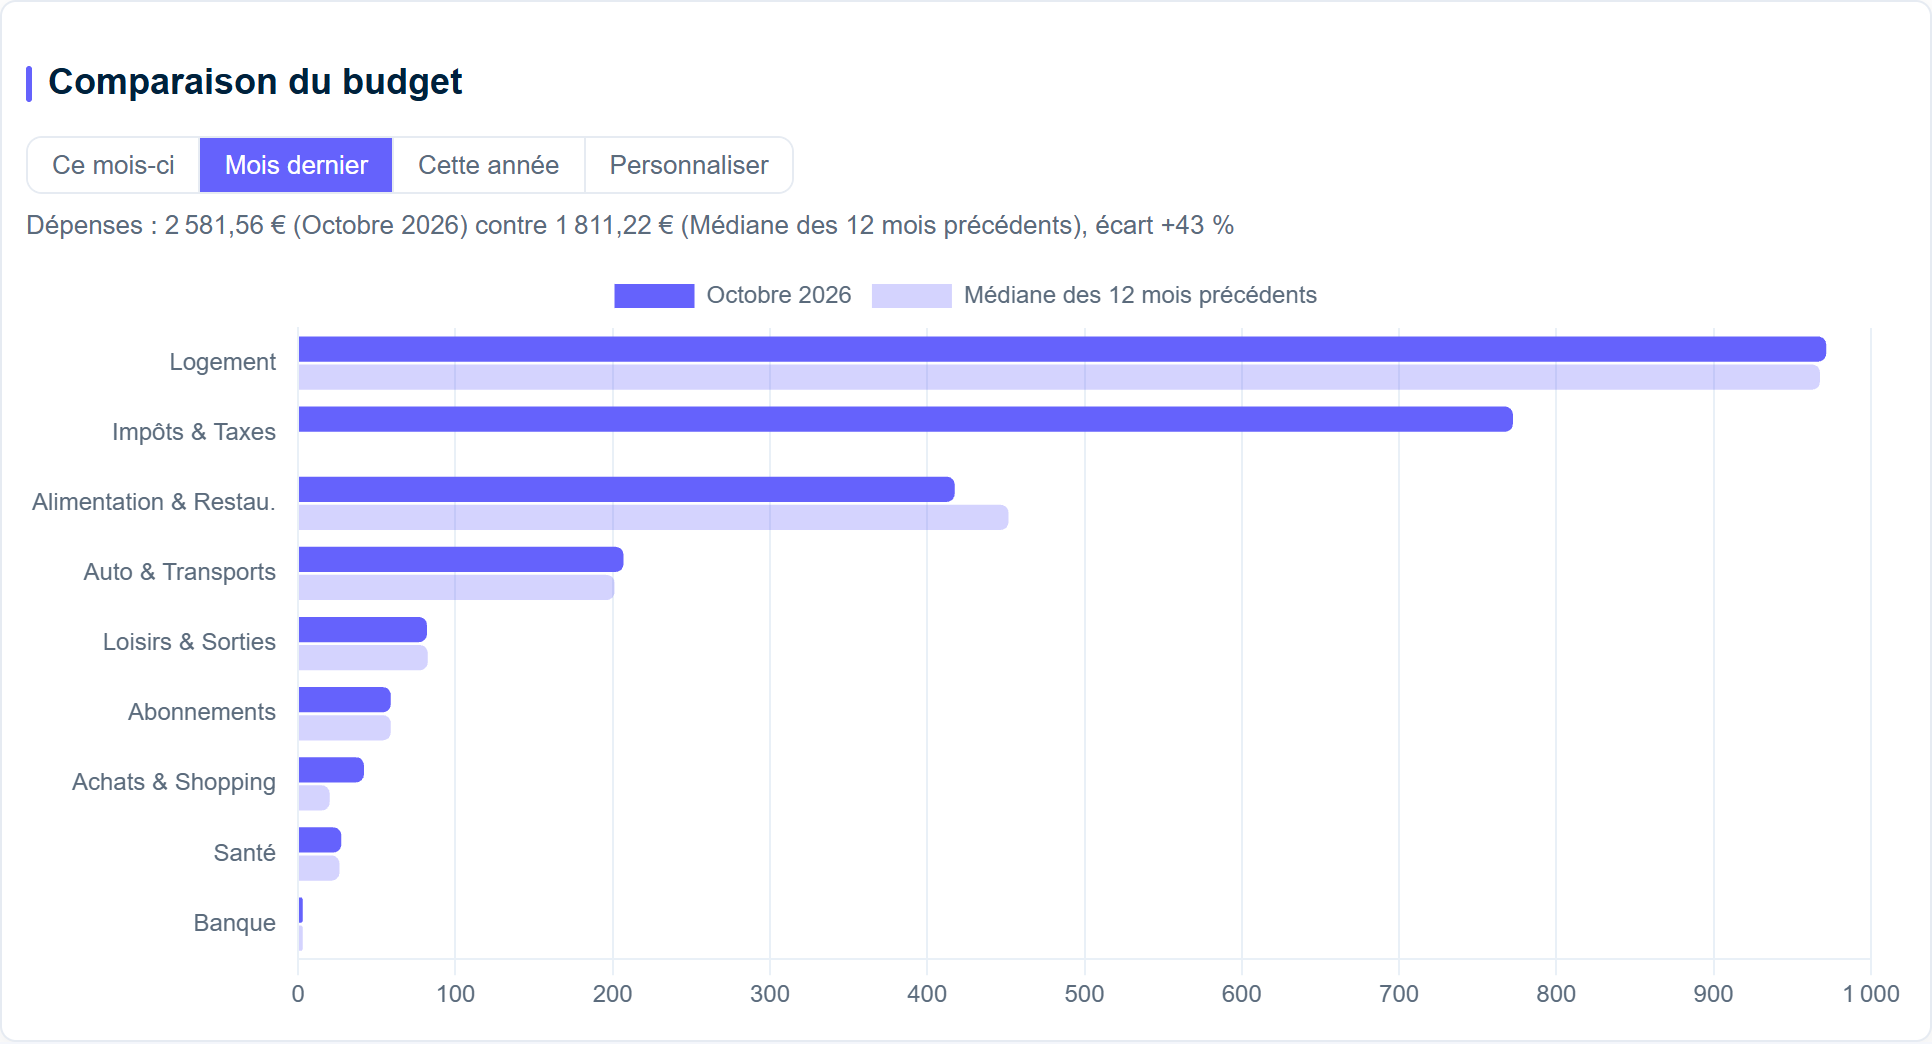
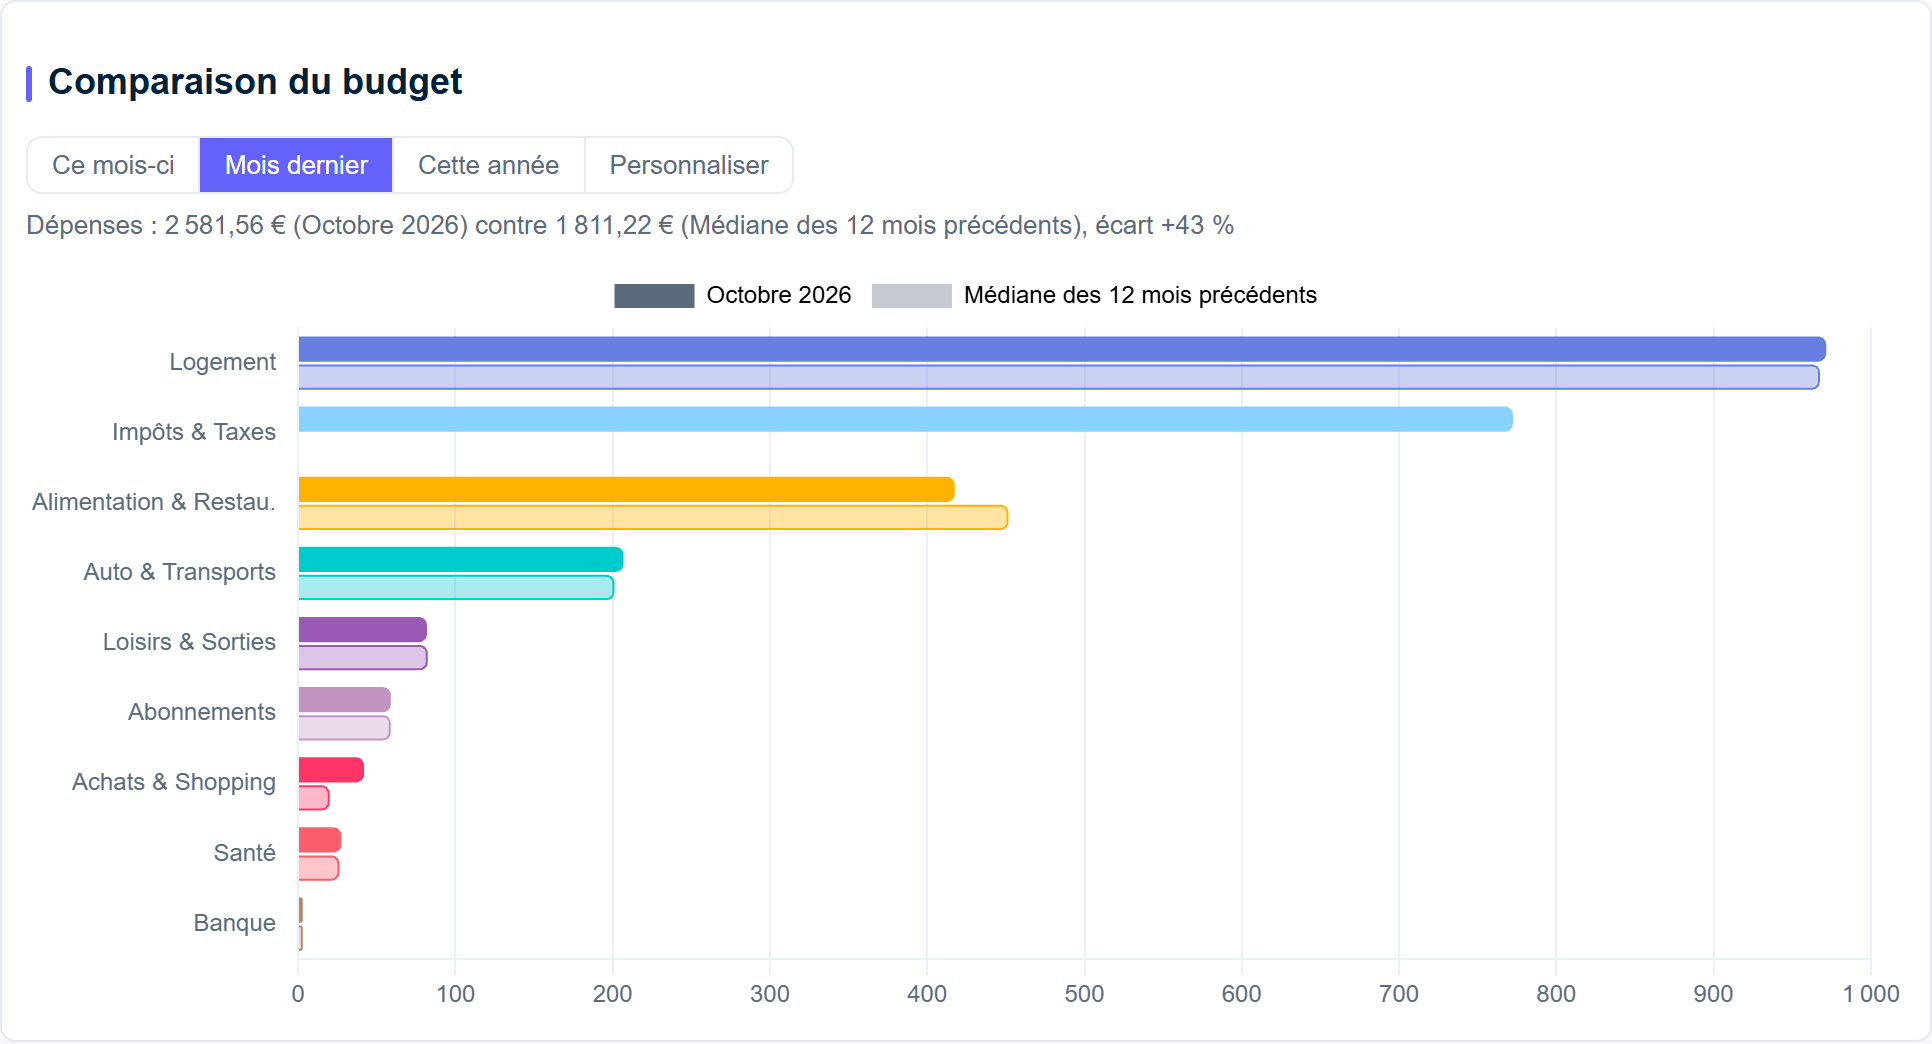
fix(charts): comparaison du budget aux couleurs des catégories de Bankin
Barres pleines pour la période, même couleur en clair pour la référence ;
légende « foncé / clair » en gris neutre. Violet de Pecunio à défaut.

Changed region(s): [[0.1553, 0.2452, 0.9627, 0.8582]]

diff --git a/js/charts/BudgetChart.js b/js/charts/BudgetChart.js
@@ -4,6 +4,7 @@ import { DateRange } from '../core/DateRange.js';
 import { Chart } from '../lib/chart.js';
 import { InjectedStyles } from '../ui/InjectedStyles.js';
 import { THEME } from '../ui/theme.js';
+import { ColorParser } from '../utils/ColorParser.js';
 import { MONTH_NAMES, formatEuros, formatNumber } from '../utils/format.js';
 import { BaseChartData } from './base/BaseChartData.js';
 import { BUDGET_PRESETS, formatDelta, presetPeriods, toExpenseComparison } from './budgetComparison.js';
@@ -51,6 +52,33 @@ export class BudgetChart extends BaseChartData {
 
     /** Hauteur d'une ligne (catégorie) du graphique horizontal, en pixels. */
     static ROW_HEIGHT = 34;
+
+    /** Opacité des barres de la période de référence (même couleur, plus claire). */
+    static COMPARISON_ALPHA = 0.35;
+
+    /**
+     * Même couleur avec une opacité : « rgb(1, 2, 3) » → « rgba(1, 2, 3, 0.35) ».
+     * @param {string} color
+     * @param {number} alpha
+     */
+    static withAlpha(color, alpha) {
+        const match = /^rgba?\((\d+),\s*(\d+),\s*(\d+)/.exec(color || '');
+        return match ? `rgba(${match[1]}, ${match[2]}, ${match[3]}, ${alpha})` : color;
+    }
+
+    /**
+     * Couleur de Bankin de chaque catégorie (par son nom), violet de Pecunio à défaut.
+     * @param {string[]} names
+     * @returns {string[]}
+     */
+    _categoryColors(names) {
+        return names.map((name) => {
+            const category = this.categories?.find((c) => c && c.name === name);
+            const color = category ? ColorParser.parseColorCSS(`categoryColor_${category.id}`) : '';
+            // Sans règle CSS, la couleur calculée est transparente
+            return color && !/^rgba\(0, 0, 0, 0\)$|^transparent$/.test(color) ? color : THEME.accent;
+        });
+    }
 
     static ALL_MONTHS_LABEL = 'Tous les mois';
 
@@ -518,13 +546,17 @@ export class BudgetChart extends BaseChartData {
         this._renderSummary(comparison, totals, rows.length);
 
         this.canvasContainer.style.height = `${Math.max(160, rows.length * BudgetChart.ROW_HEIGHT + 70)}px`;
+        // Couleurs des catégories de Bankin : pleine pour la période, claire pour la référence
+        const colors = this._categoryColors(rows.map((r) => r.name));
+        const light = colors.map((c) => BudgetChart.withAlpha(c, BudgetChart.COMPARISON_ALPHA));
+        const legendItem = (text, fillStyle, datasetIndex) => ({ text, fillStyle, strokeStyle: fillStyle, lineWidth: 0, datasetIndex, hidden: false });
         const config = {
             type: 'bar',
             data: {
                 labels: rows.map((r) => r.name),
                 datasets: [
-                    { label: comparison.primaryLabel, data: rows.map((r) => r.primary), backgroundColor: THEME.accent, borderRadius: 4 },
-                    { label: comparison.comparisonLabel, data: rows.map((r) => r.comparison), backgroundColor: 'rgba(101, 98, 252, 0.28)', borderRadius: 4 },
+                    { label: comparison.primaryLabel, data: rows.map((r) => r.primary), backgroundColor: colors, borderRadius: 4 },
+                    { label: comparison.comparisonLabel, data: rows.map((r) => r.comparison), backgroundColor: light, borderColor: colors, borderWidth: 1, borderRadius: 4 },
                 ],
             },
             options: {
@@ -539,7 +571,17 @@ export class BudgetChart extends BaseChartData {
                     y: { grid: { display: false } },
                 },
                 plugins: {
-                    legend: { position: 'top' },
+                    legend: {
+                        position: 'top',
+                        // Une couleur par catégorie : la légende montre « foncé / clair » en gris neutre
+                        labels: {
+                            generateLabels: () => [
+                                legendItem(comparison.primaryLabel, THEME.textMuted, 0),
+                                legendItem(comparison.comparisonLabel, BudgetChart.withAlpha('rgb(91, 107, 124)', BudgetChart.COMPARISON_ALPHA), 1),
+                            ],
+                        },
+                        onClick: () => {},
+                    },
                     tooltip: {
                         mode: 'index',
                         intersect: false,

diff --git a/test/unit/charts.test.js b/test/unit/charts.test.js
@@ -658,3 +658,20 @@ describe('LineBarChart — barre d\'outils (UX-2a)', () => {
         expect(LineBarChart.title('all')).toBe('Revenus et dépenses par mois');
     });
 });
+
+describe('BudgetChart — couleurs des catégories', () => {
+    test('même couleur, plus claire, pour la période de référence', () => {
+        expect(BudgetChart.withAlpha('rgb(255, 178, 0)', 0.35)).toBe('rgba(255, 178, 0, 0.35)');
+        expect(BudgetChart.withAlpha('rgba(1, 2, 3, 1)', 0.5)).toBe('rgba(1, 2, 3, 0.5)');
+        expect(BudgetChart.withAlpha('#6562fc', 0.5)).toBe('#6562fc');
+    });
+
+    test('couleur de Bankin de chaque catégorie, violet à défaut', async () => {
+        const style = document.createElement('style');
+        style.textContent = '.categoryColor_159 { background-color: rgb(103, 127, 224); }';
+        document.head.appendChild(style);
+        const chart = new BudgetChart(sampleTransactions(), CATEGORIES, null, {}, fakeSettings({}));
+        expect(chart._categoryColors(['Logement', 'Banque', 'Inconnue'])).toEqual(['rgb(103, 127, 224)', '#6562fc', '#6562fc']);
+        style.remove();
+    });
+});
